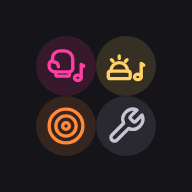
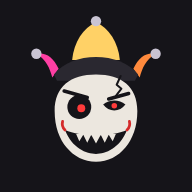
feat: App-Symbol – eigene Spielleiter-Maske mit Narrenkappe (#1)
Claude-Session: https://claude.ai/code/session_01M79Fp6kpLLKJ1fBnEuW4sT

Changed region(s): [[0.1562, 0.0625, 0.8438, 0.8438]]

diff --git a/CLAUDE.md b/CLAUDE.md
@@ -34,7 +34,7 @@ GitHub Pages (Gratis-Plan) geht nur mit öffentlichen Repos. Ausdrücklich vom N
 - Abstände 4/8/12/16/24/32/48, Radien 8/14.
 
 ## App-Symbol
-`icon.svg` ist die Vorlage (auch Favicon). Inhalt bleibt im inneren 80-%-Kreis (gilt auch als «maskable» für Android). PNGs neu rendern (Playwright vorhanden):
+`icon.svg` ist die Vorlage (auch Favicon): eigene Spielleiter-Maske mit Narrenkappe, Zipfel in Pink/Gold/Orange (Spielfarben), Schellen neutral – bewusst keine bestehende Figur nachbilden. Inhalt bleibt im inneren 80-%-Kreis (gilt auch als «maskable» für Android). PNGs neu rendern (Playwright vorhanden):
 ```
 node -e 'const {chromium}=require("playwright");(async()=>{const b=await chromium.launch(),s=require("fs").readFileSync("icon.svg","utf8");for(const n of [180,192,512]){const p=await b.newPage({viewport:{width:n,height:n}});await p.setContent(`<style>html,body{margin:0}svg{display:block;width:${n}px;height:${n}px}</style>`+s);await p.screenshot({path:`icon-${n}.png`})}await b.close()})()'
 ```
